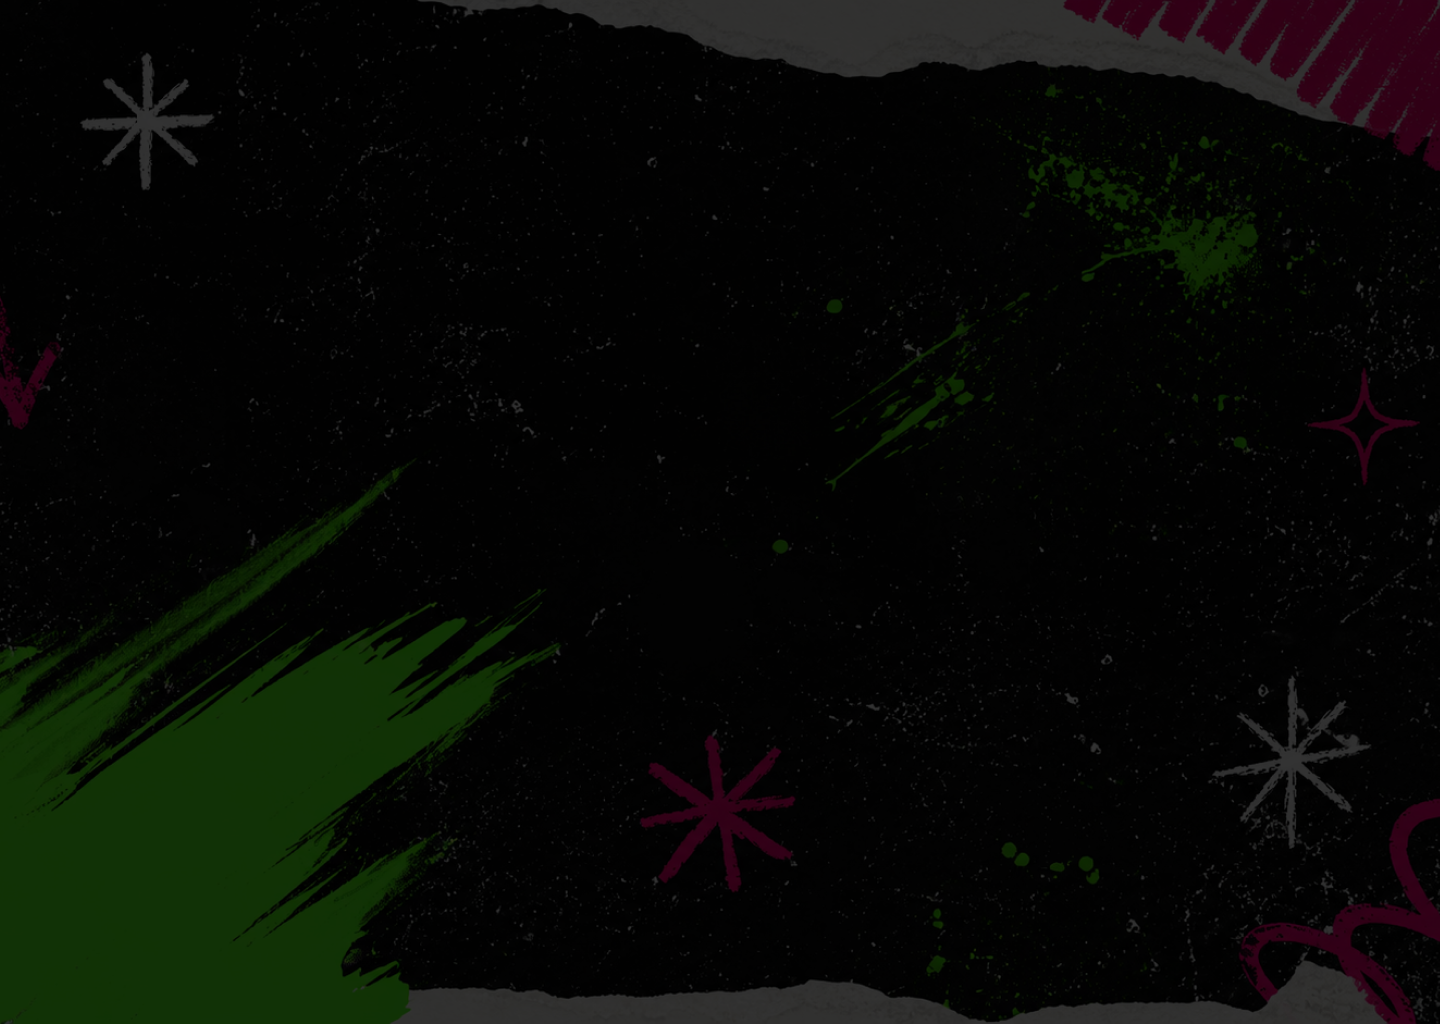
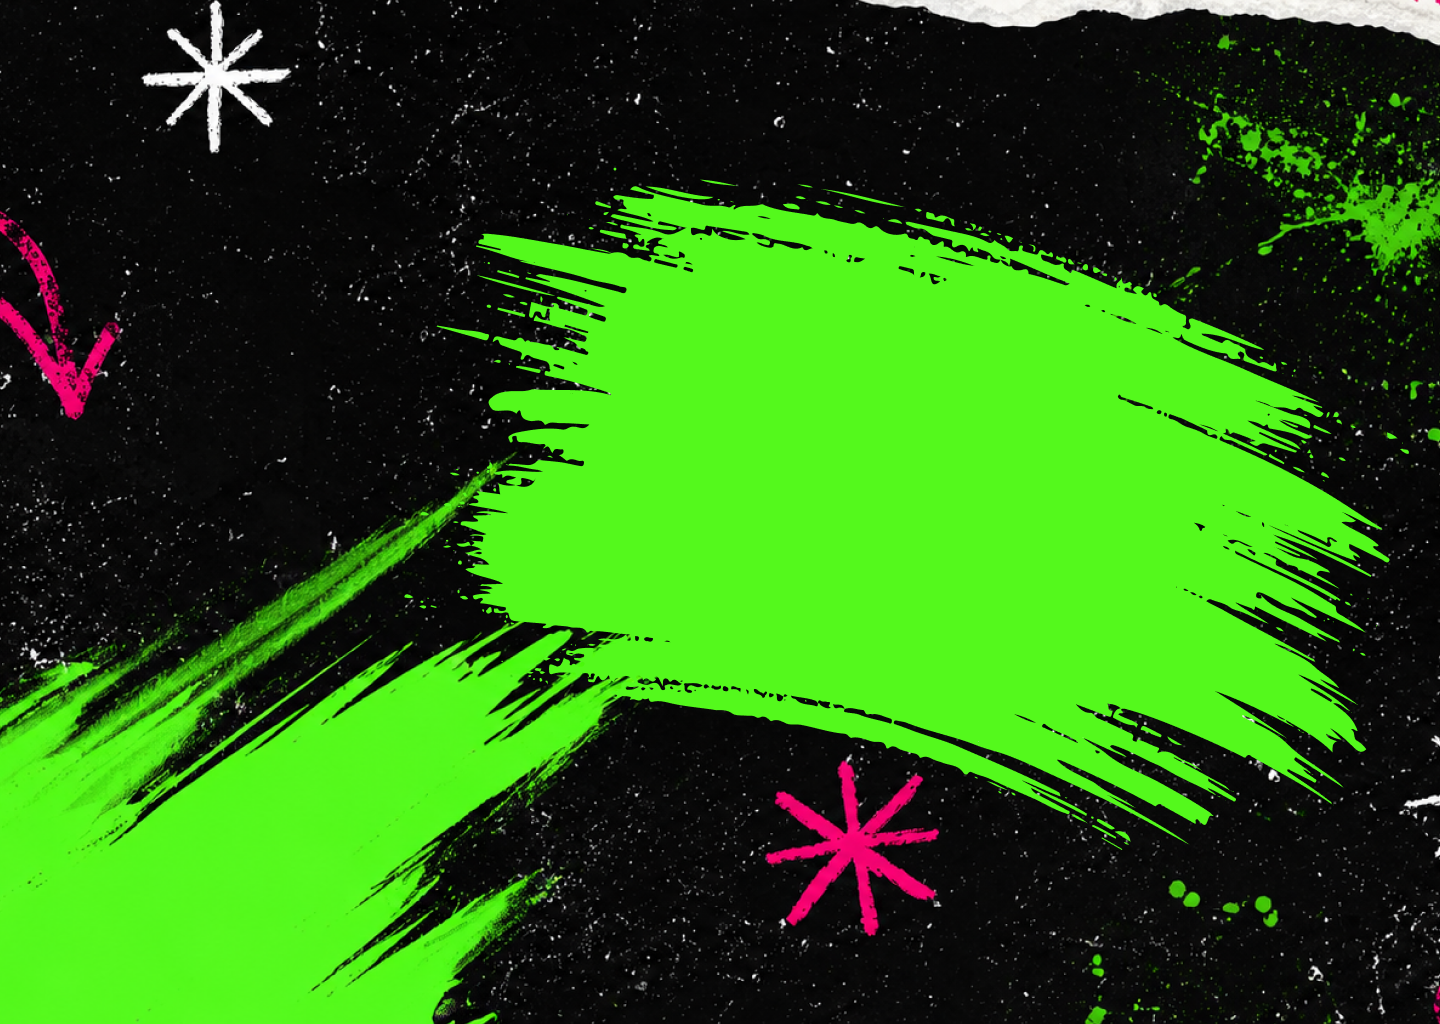
Оновлено стилі головної сторінки: заголовки, тіні та карточки.
Додано зелений акцент у PUNCH?, уніфіковано стиль секцій, білу обводку карточок і text-shadow для підзаголовків; оновлено фон Bg-new.png.

diff --git a/app/page.tsx b/app/page.tsx
@@ -374,19 +374,19 @@ export default function Home() {
           </div>
       </header>
       <main className="flex flex-col w-full z-10 items-center justify-center max-lg:mt-[20px] mt-[40px]">
-          <h1 className={`${benzin.className} text-[56px] max-lg:text-[32px] max-lg:leading-[40px] leading-[64px] text-[rgba(245,247,245,1)] font-extrabold text-center`}>ДЕ ПРИДБАТИ PUNCH?</h1>
-          <p className="text-center max-lg:mt-[16px] mt-[24px] max-lg:text-[16px] max-lg:leading-[24px] text-[20px] leading-[28px] text-[rgba(245,247,245,1)]"><span className="max-lg:text-[24px] max-lg:leading-[32px] text-[32px] leading-[40px] font-semibold">Список партнерів</span><br/> Тиць на логотип, щоб замовити:</p>
+          <h1 className={`${benzin.className} text-[56px] max-lg:text-[32px] max-lg:leading-[40px] leading-[64px] text-[rgba(245,247,245,1)] font-extrabold text-center`}>ДЕ ПРИДБАТИ <span className="text-[#0AED0A]">PUNCH?</span></h1>
+          <p className="text-center max-lg:mt-[16px] mt-[24px] max-lg:text-[16px] max-lg:leading-[24px] text-[20px] leading-[28px] text-[rgba(245,247,245,1)]"><span className={`${benzin.className} max-lg:text-[24px] max-lg:leading-[32px] text-[32px] leading-[40px] font-semibold [text-shadow:0_2px_25px_#000]`}>Список партнерів</span><br/><span className="[text-shadow:0_2px_25px_#000]"> Тиць на логотип, щоб замовити:</span></p>
           <div className="grid grid-cols-6 max-lg:mt-[24px] mt-[41px] max-w-[1848px] items-center justify-center max-lg:grid-cols-3 w-full">
               {products.map(product => (
-                  <a key={product.link} href={product.link} target="_blank" className="flex p-[20px] items-center justify-center  max-lg:p-[9px] hover:border-[rgba(10,237,10,1)] hover:bg-[linear-gradient(180deg,rgba(12,12,12,0)_0%,rgba(10,237,10,0.2)_100%)] max-lg:h-[120px] h-[clamp(120px,27vh,308px)] max-h-[308px] w-full flex items-center justify-center bg-[#0C0C0C] border border-[#000000] rounded-[10px] transition-all duration-300">
+                  <a key={product.link} href={product.link} target="_blank" className="flex p-[20px] items-center justify-center  max-lg:p-[9px] hover:border-[rgba(10,237,10,1)] hover:bg-[linear-gradient(180deg,rgba(12,12,12,0)_0%,rgba(10,237,10,0.2)_100%)] max-lg:h-[120px] h-[clamp(120px,27vh,308px)] max-h-[308px] w-full flex items-center justify-center bg-[#0C0C0C] border-2 border-white rounded-[10px] transition-all duration-300">
                       {product.img}
                   </a>
               ))}
           </div>
-          <p className="text-center max-lg:mt-[40px] mt-[60px] max-lg:text-[16px] max-lg:leading-[24px] text-[20px] leading-[28px] text-[rgba(245,247,245,1)]"><span className={`${benzin.className} max-lg:text-[24px] max-lg:leading-[32px] text-[32px] leading-[40px] font-semibold`}>Офлайн партнери</span></p>
+          <p className="text-center max-lg:mt-[40px] mt-[60px] max-lg:text-[16px] max-lg:leading-[24px] text-[20px] leading-[28px] text-[rgba(245,247,245,1)] [text-shadow:0_2px_25px_#000]"><span className={`${benzin.className} max-lg:text-[24px] max-lg:leading-[32px] text-[32px] leading-[40px] font-semibold`}>Офлайн партнери</span></p>
           <div className="grid grid-cols-4 max-lg:mt-[24px] mt-[41px] max-w-[1848px] items-center justify-center max-lg:grid-cols-2 w-full">
               {offlinePartners.map((partner, index) => (
-                  <a key={`offline-${index}`} href={partner.link} target="_blank" className="flex p-[20px] items-center justify-center max-lg:p-[9px] hover:border-[rgba(10,237,10,1)] hover:bg-[linear-gradient(180deg,rgba(12,12,12,0)_0%,rgba(10,237,10,0.2)_100%)] max-lg:h-[120px] h-[clamp(120px,27vh,308px)] max-h-[308px] w-full flex items-center justify-center bg-[#0C0C0C] border border-[#000000] rounded-[10px] transition-all duration-300 [&_img]:!max-w-[53.333%] [&_svg]:!max-w-[53.333%]">
+                  <a key={`offline-${index}`} href={partner.link} target="_blank" className="flex p-[20px] items-center justify-center max-lg:p-[9px] hover:border-[rgba(10,237,10,1)] hover:bg-[linear-gradient(180deg,rgba(12,12,12,0)_0%,rgba(10,237,10,0.2)_100%)] max-lg:h-[120px] h-[clamp(120px,27vh,308px)] max-h-[308px] w-full flex items-center justify-center bg-[#0C0C0C] border-2 border-white rounded-[10px] transition-all duration-300 [&_img]:!max-w-[53.333%] [&_svg]:!max-w-[53.333%]">
                       {partner.img}
                   </a>
               ))}
